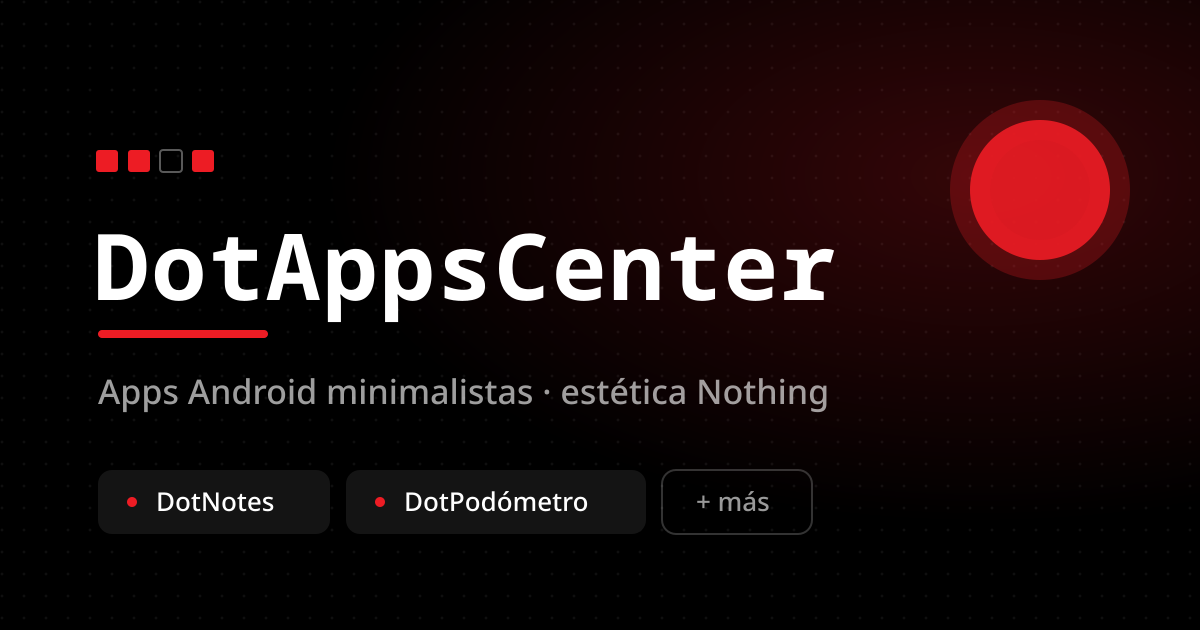
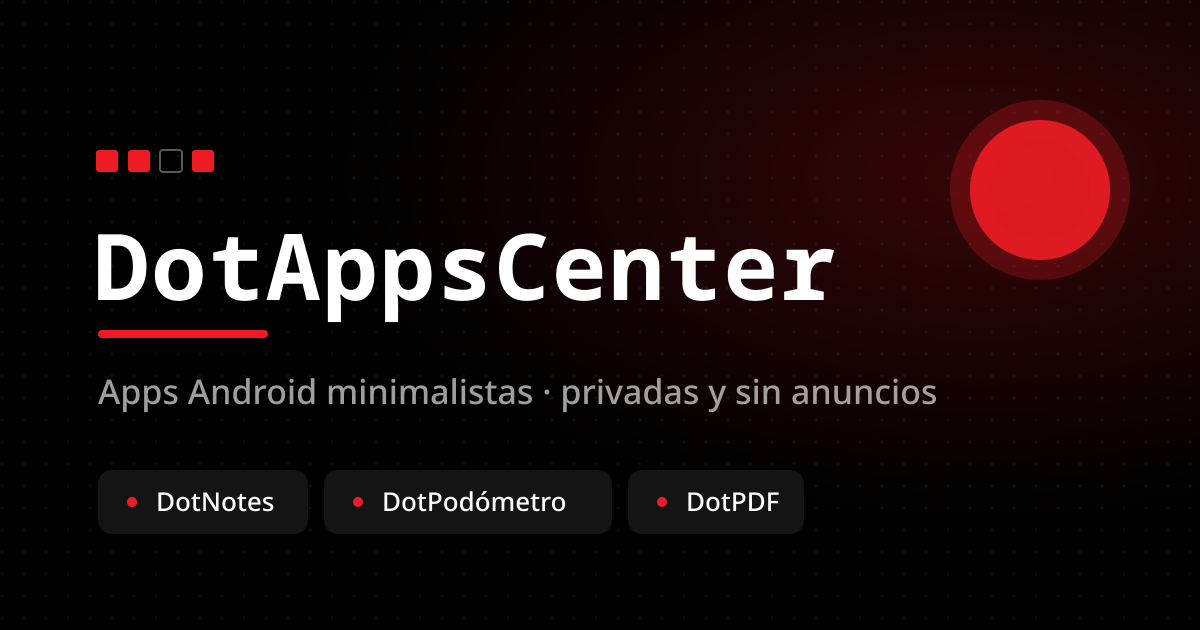
Web: añade DotPDF, enlace a privacidad y retira referencias a Nothing
- index.html: nueva tarjeta de DotPDF en la rejilla (icono documento +
  punto rojo) y footer con enlaces Apps · Privacidad · Contacto, para que
  la política de privacidad sea accesible desde el inicio.
- privacy.html: mismo footer (antes no tenía) y meta description con DotPDF.
- i18n.js: clave apps.pdf.desc y footer.privacy (ES/EN, paridad 73/73);
  textos sin referencia a la marca Nothing.
- Hero: "2 apps publicadas" -> "3 apps en la familia" (honesto: aún no hay
  ninguna publicada y ya somos tres).
- og-image: tercer chip DotPDF, tagline sin Nothing y PNG regenerado.
- css: estilos .footer-links. sitemap: fechas lastmod al 2026-06-02.
- README: retira mención a Nothing.

diff --git a/index.html b/index.html
@@ -4,7 +4,7 @@
   <meta charset="UTF-8" />
   <meta name="viewport" content="width=device-width, initial-scale=1.0" />
   <title>DotAppsCenter — Apps minimalistas</title>
-  <meta name="description" content="DotAppsCenter crea apps Android minimalistas con estética Nothing: monocromo, dot-matrix y diseño esencial." />
+  <meta name="description" content="DotAppsCenter crea apps Android minimalistas: monocromo, dot-matrix, negro OLED y un único acento rojo. Offline y sin anuncios." />
   <link rel="canonical" href="https://dotappscenter.netlify.app/" />
   <meta name="theme-color" content="#000000" />
 
@@ -17,7 +17,7 @@
   <meta property="og:type" content="website" />
   <meta property="og:site_name" content="DotAppsCenter" />
   <meta property="og:title" content="DotAppsCenter — Apps minimalistas" />
-  <meta property="og:description" content="Apps Android minimalistas con estética Nothing: monocromo, dot-matrix y un único acento rojo. Offline y sin anuncios." />
+  <meta property="og:description" content="Apps Android minimalistas: monocromo, dot-matrix y un único acento rojo. Offline y sin anuncios." />
   <meta property="og:url" content="https://dotappscenter.netlify.app/" />
   <meta property="og:image" content="https://dotappscenter.netlify.app/og-image.png" />
   <meta property="og:image:width" content="1200" />
@@ -29,7 +29,7 @@
   <!-- Twitter -->
   <meta name="twitter:card" content="summary_large_image" />
   <meta name="twitter:title" content="DotAppsCenter — Apps minimalistas" />
-  <meta name="twitter:description" content="Apps Android minimalistas con estética Nothing: monocromo, dot-matrix y un único acento rojo. Offline y sin anuncios." />
+  <meta name="twitter:description" content="Apps Android minimalistas: monocromo, dot-matrix y un único acento rojo. Offline y sin anuncios." />
   <meta name="twitter:image" content="https://dotappscenter.netlify.app/og-image.png" />
 
   <!-- Structured data -->
@@ -40,7 +40,7 @@
     "name": "DotAppsCenter",
     "url": "https://dotappscenter.netlify.app/",
     "logo": "https://dotappscenter.netlify.app/favicon.svg",
-    "description": "Estudio independiente de apps Android minimalistas con estética Nothing.",
+    "description": "Estudio independiente de apps Android minimalistas: monocromo, dot-matrix y un único acento rojo.",
     "email": "[email redacted]"
   }
   </script>
@@ -86,7 +86,7 @@
     <!-- ============ HERO / INICIO ============ -->
     <section id="inicio" class="hero">
       <div class="container">
-        <p class="eyebrow" data-i18n="hero.eyebrow">Apps Android · Estética Nothing</p>
+        <p class="eyebrow" data-i18n="hero.eyebrow">Apps Android · Diseño minimalista</p>
         <h1 class="display" data-i18n="hero.title">
           Diseño que se<br /><span class="accent">reduce</span> a lo esencial.
         </h1>
@@ -100,7 +100,7 @@
         </div>
 
         <div class="hero-meta">
-          <div class="stat"><div class="num">2</div><div class="lbl" data-i18n="hero.stat1">apps publicadas</div></div>
+          <div class="stat"><div class="num">3</div><div class="lbl" data-i18n="hero.stat1">apps en la familia</div></div>
           <div class="stat"><div class="num">100%</div><div class="lbl" data-i18n="hero.stat2">offline · sin anuncios</div></div>
           <div class="stat"><div class="num">OLED</div><div class="lbl" data-i18n="hero.stat3">negro OLED puro</div></div>
         </div>
@@ -156,6 +156,25 @@
             <span class="badge-soon"><span class="dot-pulse"><span></span><span></span><span></span></span> <span data-i18n="apps.badge.soon">Próximamente en Play Store</span></span>
           </article>
 
+          <!-- DotPDF -->
+          <article class="app-card">
+            <div class="app-icon">
+              <svg viewBox="0 0 108 108" aria-hidden="true">
+                <path d="M37,28 L62,28 L73,39 L73,80 L37,80 Z" fill="none" stroke="#fff" stroke-width="3.5" stroke-linejoin="round" stroke-linecap="round"/>
+                <path d="M62,28 L62,39 L73,39" fill="none" stroke="#fff" stroke-width="3.5" stroke-linejoin="round" stroke-linecap="round"/>
+                <circle cx="55" cy="62" r="6" fill="#ed1c24"/>
+              </svg>
+            </div>
+            <h3>DotPDF</h3>
+            <p data-i18n="apps.pdf.desc">Visor de PDF minimalista: abre al instante, zoom, búsqueda y vínculos. Todo local, sin anuncios ni telemetría.</p>
+            <div class="tags">
+              <span class="tag">PDF</span>
+              <span class="tag">Offline</span>
+              <span class="tag">Privado</span>
+            </div>
+            <span class="badge-soon"><span class="dot-pulse"><span></span><span></span><span></span></span> <span data-i18n="apps.badge.soon">Próximamente en Play Store</span></span>
+          </article>
+
           <!-- Próxima app -->
           <article class="app-card">
             <div class="app-icon">
@@ -183,8 +202,8 @@
             <h2 class="section-title" data-i18n="about.title">Menos, pero mejor.</h2>
             <p class="muted" style="margin-bottom:24px" data-i18n="about.p1">
               DotAppsCenter es un estudio independiente enfocado en apps Android
-              que respetan tu atención y tu privacidad. Nos inspira el lenguaje de
-              Nothing: monocromo, puntos y precisión.
+              que respetan tu atención y tu privacidad. Nuestro lenguaje visual es
+              monocromo, dot-matrix y preciso.
             </p>
             <p class="muted" data-i18n="about.p2">
               Cada app de la familia comparte el mismo sistema de diseño —negro OLED,
@@ -239,6 +258,11 @@
         <span class="dots" aria-hidden="true"><span class="on"></span><span class="on"></span><span></span><span class="on"></span></span>
         DotAppsCenter
       </div>
+      <nav class="footer-links">
+        <a href="#apps" data-i18n="nav.apps">Apps</a>
+        <a href="privacy.html" data-i18n="footer.privacy">Privacidad</a>
+        <a href="#contacto" data-i18n="nav.contact">Contacto</a>
+      </nav>
       <div>© <span id="year"></span> DotAppsCenter · <span data-i18n="footer.tagline">Apps minimalistas para Android</span></div>
     </div>
   </footer>

diff --git a/js/i18n.js b/js/i18n.js
@@ -5,19 +5,19 @@
 const I18N = {
   es: {
     "meta.title": "DotAppsCenter — Apps minimalistas",
-    "meta.desc": "DotAppsCenter crea apps Android minimalistas con estética Nothing: monocromo, dot-matrix y diseño esencial.",
+    "meta.desc": "DotAppsCenter crea apps Android minimalistas: monocromo, dot-matrix, negro OLED y un único acento rojo. Offline y sin anuncios.",
 
     "nav.home": "Inicio",
     "nav.apps": "Apps",
     "nav.about": "Nosotros",
     "nav.contact": "Contacto",
 
-    "hero.eyebrow": "Apps Android · Estética Nothing",
+    "hero.eyebrow": "Apps Android · Diseño minimalista",
     "hero.title": 'Diseño que se<br /><span class="accent">reduce</span> a lo esencial.',
     "hero.desc": "En DotAppsCenter construimos aplicaciones minimalistas: negro OLED, tipografía dot-matrix y un único acento rojo. Nada de ruido, solo lo que importa.",
     "hero.cta1": "Ver nuestras apps",
     "hero.cta2": "Conócenos",
-    "hero.stat1": "apps publicadas",
+    "hero.stat1": "apps en la familia",
     "hero.stat2": "offline · sin anuncios",
     "hero.stat3": "negro OLED puro",
 
@@ -26,6 +26,7 @@ const I18N = {
     "apps.subtitle": "Una familia coherente de herramientas diarias, todas siguiendo el Dot Design System.",
     "apps.notes.desc": "Notas minimalistas con Markdown, categorías, checklists, búsqueda y widget. Tus ideas, sin distracciones.",
     "apps.podo.desc": "Registra caminatas, carreras y rutas en bici con GPS, mapa en tiempo real y estadísticas. Todo local en tu dispositivo.",
+    "apps.pdf.desc": "Visor de PDF minimalista: abre al instante, zoom, búsqueda y vínculos. Todo local, sin anuncios ni telemetría.",
     "apps.soon.title": "Más en camino",
     "apps.soon.desc": "Estamos diseñando nuevas herramientas con el mismo principio: minimalismo radical y foco total en el usuario.",
     "apps.soon.tag": "En desarrollo",
@@ -34,7 +35,7 @@ const I18N = {
 
     "about.eyebrow": "Nosotros",
     "about.title": "Menos, pero mejor.",
-    "about.p1": "DotAppsCenter es un estudio independiente enfocado en apps Android que respetan tu atención y tu privacidad. Nos inspira el lenguaje de Nothing: monocromo, puntos y precisión.",
+    "about.p1": "DotAppsCenter es un estudio independiente enfocado en apps Android que respetan tu atención y tu privacidad. Nuestro lenguaje visual es monocromo, dot-matrix y preciso.",
     "about.p2": "Cada app de la familia comparte el mismo sistema de diseño —negro OLED, dot-matrix y un solo acento rojo— para que se sientan como hermanas. Sin anuncios, sin rastreo, con tus datos siempre en tu dispositivo.",
     "about.v1t": "Minimalismo",
     "about.v1d": "Si un elemento no es contenido ni navegación, sobra. Quitamos antes de añadir.",
@@ -51,6 +52,7 @@ const I18N = {
     "contact.btn": "Enviar correo",
 
     "footer.tagline": "Apps minimalistas para Android",
+    "footer.privacy": "Privacidad",
 
     // privacy.html
     "pv.meta.title": "Política de Privacidad — DotAppsCenter",
@@ -87,19 +89,19 @@ const I18N = {
 
   en: {
     "meta.title": "DotAppsCenter — Minimalist apps",
-    "meta.desc": "DotAppsCenter builds minimalist Android apps with a Nothing-inspired look: monochrome, dot-matrix and essential design.",
+    "meta.desc": "DotAppsCenter builds minimalist Android apps: monochrome, dot-matrix, OLED black and a single red accent. Offline and ad-free.",
 
     "nav.home": "Home",
     "nav.apps": "Apps",
     "nav.about": "About",
     "nav.contact": "Contact",
 
-    "hero.eyebrow": "Android apps · Nothing-inspired",
+    "hero.eyebrow": "Android apps · Minimalist design",
     "hero.title": 'Design stripped<br />down to the <span class="accent">essential</span>.',
     "hero.desc": "At DotAppsCenter we build minimalist apps: OLED black, dot-matrix typography and a single red accent. No noise, only what matters.",
     "hero.cta1": "See our apps",
     "hero.cta2": "About us",
-    "hero.stat1": "apps shipped",
+    "hero.stat1": "apps in the family",
     "hero.stat2": "offline · no ads",
     "hero.stat3": "true OLED black",
 
@@ -108,6 +110,7 @@ const I18N = {
     "apps.subtitle": "A coherent family of everyday tools, all following the Dot Design System.",
     "apps.notes.desc": "Minimalist notes with Markdown, categories, checklists, search and a widget. Your ideas, distraction-free.",
     "apps.podo.desc": "Track walks, runs and bike rides with GPS, a live map and stats. Everything stays local on your device.",
+    "apps.pdf.desc": "Minimalist PDF viewer: opens instantly, zoom, search and links. Fully local, no ads or telemetry.",
     "apps.soon.title": "More on the way",
     "apps.soon.desc": "We're designing new tools with the same principle: radical minimalism and total focus on the user.",
     "apps.soon.tag": "In development",
@@ -116,7 +119,7 @@ const I18N = {
 
     "about.eyebrow": "About",
     "about.title": "Less, but better.",
-    "about.p1": "DotAppsCenter is an independent studio focused on Android apps that respect your attention and your privacy. We're inspired by Nothing's language: monochrome, dots and precision.",
+    "about.p1": "DotAppsCenter is an independent studio focused on Android apps that respect your attention and your privacy. Our visual language is monochrome, dot-matrix and precise.",
     "about.p2": "Every app in the family shares the same design system —OLED black, dot-matrix and a single red accent— so they feel like siblings. No ads, no tracking, your data always on your device.",
     "about.v1t": "Minimalism",
     "about.v1d": "If something isn't content or navigation, it's clutter. We remove before we add.",
@@ -133,6 +136,7 @@ const I18N = {
     "contact.btn": "Send email",
 
     "footer.tagline": "Minimalist apps for Android",
+    "footer.privacy": "Privacy",
 
     // privacy.html
     "pv.meta.title": "Privacy Policy — DotAppsCenter",

diff --git a/privacy.html b/privacy.html
@@ -4,7 +4,7 @@
   <meta charset="UTF-8" />
   <meta name="viewport" content="width=device-width, initial-scale=1.0" />
   <title>Política de Privacidad — DotAppsCenter</title>
-  <meta name="description" content="Política de privacidad de las apps de DotAppsCenter (DotNotes, DotPodómetro)." />
+  <meta name="description" content="Política de privacidad de las apps de DotAppsCenter (DotNotes, DotPodómetro, DotPDF)." />
   <link rel="canonical" href="https://dotappscenter.netlify.app/privacy.html" />
   <meta name="theme-color" content="#000000" />
   <meta name="robots" content="index, follow" />
@@ -106,6 +106,22 @@
     <p data-i18n="pv.contact">Para cualquier consulta sobre privacidad: <a href="mailto:[email redacted]">[email redacted]</a></p>
   </div>
 
+  <footer>
+    <div class="container footer-inner">
+      <a class="brand" href="index.html" style="font-size:1rem">
+        <span class="dots" aria-hidden="true"><span class="on"></span><span class="on"></span><span></span><span class="on"></span></span>
+        DotAppsCenter
+      </a>
+      <nav class="footer-links">
+        <a href="index.html#apps" data-i18n="nav.apps">Apps</a>
+        <a href="privacy.html" data-i18n="footer.privacy">Privacidad</a>
+        <a href="index.html#contacto" data-i18n="nav.contact">Contacto</a>
+      </nav>
+      <div>© <span id="year"></span> DotAppsCenter · <span data-i18n="footer.tagline">Apps minimalistas para Android</span></div>
+    </div>
+  </footer>
+
   <script src="js/i18n.js"></script>
+  <script src="js/main.js"></script>
 </body>
 </html>

diff --git a/css/styles.css b/css/styles.css
@@ -251,6 +251,9 @@ footer {
   flex-wrap: wrap; gap: var(--s-4);
   color: var(--dot-white-40); font-size: 0.85rem;
 }
+.footer-links { display: flex; gap: var(--s-6); flex-wrap: wrap; }
+.footer-links a { color: var(--dot-white-60); transition: color 0.15s; }
+.footer-links a:hover { color: var(--dot-white); }
 
 /* ---------- Responsive ---------- */
 @media (max-width: 760px) {

diff --git a/README.md b/README.md
@@ -1,6 +1,6 @@
 # DotWeb — Sitio web de DotAppsCenter
 
-Sitio estático (HTML/CSS/JS, sin dependencias ni build) con la estética **Dot/Nothing**
+Sitio estático (HTML/CSS/JS, sin dependencias ni build) con la estética **Dot**
 (monocromo + acento rojo, dot-matrix), alineado con el [DESIGN_SYSTEM.md](../DESIGN_SYSTEM.md) de las apps.
 
 **Desplegado en:** https://dotappscenter.netlify.app/